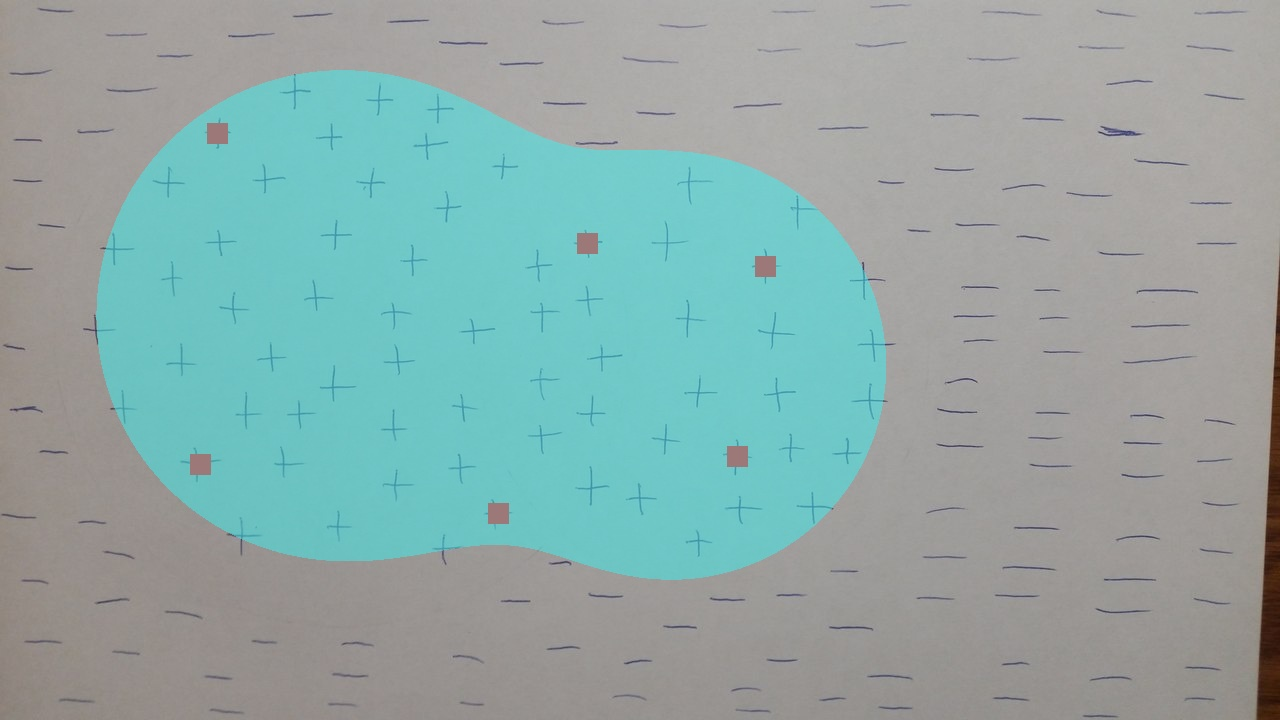
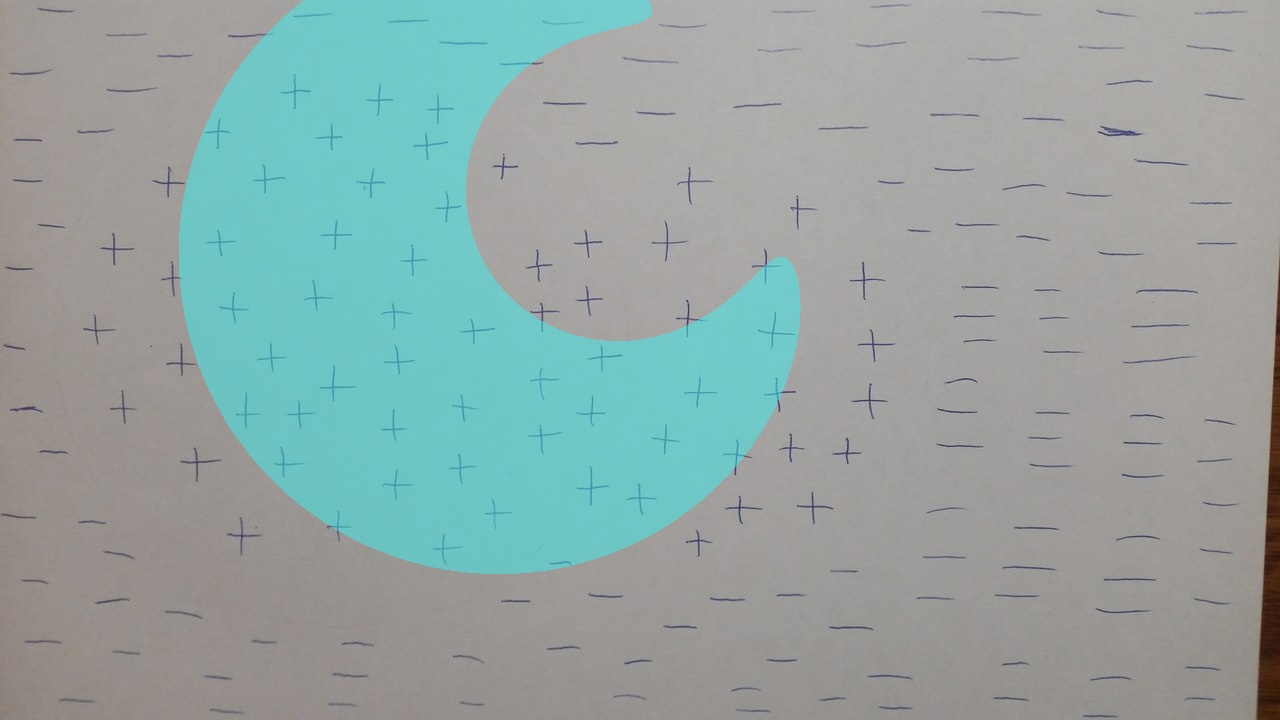
some is strange

Changed region(s): [[0.0625, 0.0, 0.7188, 0.825]]

diff --git a/perseptrons/plus3.1.py b/perseptrons/plus3.1.py
@@ -4,6 +4,7 @@ import queue
 
 global img
 global tmp
+global Plus, Minus
 
 numpy.random.seed(179)
 
@@ -20,6 +21,126 @@ def oval(canv, X2, Y2, R, N, color = "black"):
 
 def mr():
     return (-1 + numpy.random.random() * 2) / 20
+
+def count(Per1, Per2, Per3, N):
+    tmp = 0
+    while True:
+        t = numpy.random.randint(2)
+        if t:
+            p = numpy.random.randint(len(Plus))
+            x, y = Plus[p]
+        else:
+            p = numpy.random.randint(len(Minus))
+            x, y = Minus[p]
+            t = -1
+        in1 = nonlin(Coeff * incircle(x, y, Per1))
+        in2 = nonlin(Coeff * incircle(x, y, Per2))
+        ans = in1 * Per3[0][0] + in2 * Per3[1][0] + Per3[2][0]
+        if ans * t < 0:
+            Per3[0][0] += in1 * t * 0.01
+            Per3[1][0] += in2 * t * 0.01
+            Per3[2][0] += t * 0.01
+            d1 = nonlin(Coeff * incircle(x, y, Per1), True)
+            d2 = nonlin(Coeff * incircle(x, y, Per2), True)
+            coeff = t * d1 * Per3[0][0] * 0.01
+
+            Per1[0][0] += x ** 2 * coeff
+            Per1[1][0] += x * coeff
+            Per1[0][0] += y ** 2 * coeff
+            Per1[2][0] += y * coeff
+            Per1[3][0] += coeff
+            #Per1 /= numpy.sqrt(Per1[0][0] ** 2 + Per1[1][0] ** 2 + Per1[2][0] ** 2 + Per1[3][0] ** 2)
+            coeff = t * d2 * Per3[1][0] * 0.01
+            Per2[0][0] += x ** 2 * coeff
+            Per2[1][0] += x * coeff
+            Per2[0][0] += y ** 2 * coeff
+            Per2[2][0] += y * coeff
+            Per2[3][0] += coeff
+            #Per2 /= numpy.sqrt(Per2[0][0] ** 2 + Per2[1][0] ** 2 + Per2[2][0] ** 2 + Per2[3][0] ** 2)
+
+        tmp += 1
+        if tmp > N:
+            break
+
+    ErRr = 0
+
+    tmp = 0
+    while True:
+        t = 1
+        if t:
+            p = tmp
+            x, y = Plus[p]
+        else:
+            p = numpy.random.randint(len(Minus))
+            x, y = Minus[p]
+            t = -1
+        in1 = nonlin(Coeff * incircle(x, y, Per1))
+        in2 = nonlin(Coeff * incircle(x, y, Per2))
+        ans = in1 * Per3[0][0] + in2 * Per3[1][0] + Per3[2][0]
+        if ans * t < 0:
+            ErRr += 1
+
+        tmp += 1
+        if tmp >= len(Plus):
+            break
+
+    ErRrP = ErRr
+    ErRr = 0
+
+    tmp = 0
+    while True:
+        t = 0
+        if t:
+            p = tmp
+            x, y = Plus[p]
+        else:
+            p = tmp
+            x, y = Minus[p]
+            t = -1
+        in1 = nonlin(Coeff * incircle(x, y, Per1))
+        in2 = nonlin(Coeff * incircle(x, y, Per2))
+        ans = in1 * Per3[0][0] + in2 * Per3[1][0] + Per3[2][0]
+        if ans * t < 0:
+            ErRr += 1
+
+        tmp += 1
+        if tmp >= len(Minus):
+            break
+
+    return ErRrP, ErRr, Per1, Per2, Per3
+
+def expirement(P, Const = 10000): #p1x, p1y, ..., p6x, p6y
+    x1, y1, x2, y2, x3, y3 = P[:6]
+
+    locPer1 = 2 * numpy.random.random((4, 1)) - 1
+    locPer2 = 2 * numpy.random.random((4, 1)) - 1
+    locPer3 = 2 * numpy.random.random((3, 1)) - 1
+
+    locPer1[0][0] = (x2 - x3)*y1 - x1*(y2 - y3) + x3*y2 - x2*y3
+    locPer1[1][0] = x1**2*(y2 - y3) + y1**2*(y2 - y3) + x2**2*y3 + y2**2*y3 - (x2**2 - x3**2 + y2**2 - y3**2)*y1 - (x3**2 + y3**2)*y2
+    locPer1[2][0] = -x1**2*(x2 - x3) - x2**2*x3 - (x2 - x3)*y1**2 - x3*y2**2 + (x2**2 - x3**2 + y2**2 - y3**2)*x1 + (x3**2 + y3**2)*x2
+    locPer1[3][0] = -(x3*y2 - x2*y3)*x1**2 - (x3*y2 - x2*y3)*y1**2 - (x2**2*y3 + y2**2*y3 - (x3**2 + y3**2)*y2)*x1 + (x2**2*x3 + x3*y2**2 - (x3**2 + y3**2)*x2)*y1
+
+    locPer1 /= numpy.sqrt(locPer1[0][0] ** 2 + locPer1[1][0] ** 2 + locPer1[2][0] ** 2 + locPer1[3][0] ** 2)
+
+    x1, y1, x2, y2, x3, y3 = P[6:]
+
+    #by sage
+    locPer2[0][0] = (x2 - x3)*y1 - x1*(y2 - y3) + x3*y2 - x2*y3
+    locPer2[1][0] = x1**2*(y2 - y3) + y1**2*(y2 - y3) + x2**2*y3 + y2**2*y3 - (x2**2 - x3**2 + y2**2 - y3**2)*y1 - (x3**2 + y3**2)*y2
+    locPer2[2][0] = -x1**2*(x2 - x3) - x2**2*x3 - (x2 - x3)*y1**2 - x3*y2**2 + (x2**2 - x3**2 + y2**2 - y3**2)*x1 + (x3**2 + y3**2)*x2
+    locPer2[3][0] = -(x3*y2 - x2*y3)*x1**2 - (x3*y2 - x2*y3)*y1**2 - (x2**2*y3 + y2**2*y3 - (x3**2 + y3**2)*y2)*x1 + (x2**2*x3 + x3*y2**2 - (x3**2 + y3**2)*x2)*y1
+
+    locPer2 /= numpy.sqrt(locPer2[0][0] ** 2 + locPer2[1][0] ** 2 + locPer2[2][0] ** 2 + locPer2[3][0] ** 2)
+
+    locPer3[0][0] = 1 + mr()
+    locPer3[1][0] = 1 + mr()
+    locPer3[2][0] = -3/2 + mr()
+
+    erp, erm, locPer1, locPer2, locPer3 = count(locPer1, locPer2, locPer3, Const) #big constant
+    #erp, erm = 0, 0
+    return (erp / len(Plus))**2 + (erm / len(Minus))**2, locPer1, locPer2, locPer3
+
 
 Per1 = 2 * numpy.random.random((4, 1)) - 1
 Per2 = 2 * numpy.random.random((4, 1)) - 1
@@ -58,6 +179,57 @@ print(len(Minus))
 if len(Plus) < 6:
     exit(0)
 
+D = max(len(img), len(img[0]))
+for i in range(len(Plus)):
+    Plus[i] = (Plus[i][0] / D, Plus[i][1] / D)
+for i in range(len(Minus)):
+    Minus[i] = (Minus[i][0] / D, Minus[i][1] / D)
+
+Min = 2
+S = set()
+while len(S) < 6:
+    S |= {numpy.random.randint(len(Plus))}
+S = [Plus[_] for _ in S]
+MinS = S
+for i in range(50): #big constant
+    S = set()
+    while len(S) < 6:
+        S |= {numpy.random.randint(len(Plus))}
+    S = [Plus[_] for _ in S]
+    P = [S[0][0], S[0][1], S[1][0], S[1][1], S[4][0], S[4][1]]
+    P += [S[3][0], S[3][1], S[2][0], S[2][1], S[5][0], S[5][1]]
+
+    tmpMin, locPer1, locPer2, locPer3 = expirement(P)
+    if tmpMin < Min:
+        MinS = S
+        Min = tmpMin
+
+print("Min = ", Min)
+S = MinS
+P = [S[0][0], S[0][1], S[1][0], S[1][1], S[4][0], S[4][1]]
+P += [S[3][0], S[3][1], S[2][0], S[2][1], S[5][0], S[5][1]]
+
+tmpMin, Per1, Per2, Per3 = expirement(P, Const = 2000000)
+
+print(tmpMin)
+
+print("Start draw")
+
+for i in range(len(img)):
+    for j in range(len(img[0])):
+        x, y = i / D, j / D
+        in1 = nonlin(Coeff * incircle(x, y, Per1))
+        in2 = nonlin(Coeff * incircle(x, y, Per2))
+        ans = in1 * Per3[0][0] + in2 * Per3[1][0] + Per3[2][0]
+        if ans > 0:
+            img[i][j][0] = (240 + img[i][j][0]) // 2
+            img[i][j][1] = (240 + img[i][j][1]) // 2
+            img[i][j][2] = (60 + img[i][j][2]) // 2
+
+cv2.imwrite("./newpm3.jpg", img)
+
+exit(0)
+
 S = set()
 while len(S) < 6:
     S |= {numpy.random.randint(len(Plus))}
@@ -69,12 +241,6 @@ for elem in S:
             img[x + dx][y + dy][0] = 0
             img[x + dx][y + dy][1] = 0
             img[x + dx][y + dy][2] = 255
-
-D = max(len(img), len(img[0]))
-for i in range(len(Plus)):
-    Plus[i] = (Plus[i][0] / D, Plus[i][1] / D)
-for i in range(len(Minus)):
-    Minus[i] = (Minus[i][0] / D, Minus[i][1] / D)
 
 S = [Plus[i] for i in S]
 
@@ -139,8 +305,8 @@ while True:
         #Per2 /= numpy.sqrt(Per2[0][0] ** 2 + Per2[1][0] ** 2 + Per2[2][0] ** 2 + Per2[3][0] ** 2)
 
     tmp += 1
-    print(tmp / (10000 * (len(Plus) + len(Minus))))
-    if tmp > 10000 * (len(Plus) + len(Minus)):
+    print(tmp / (5000 * (len(Plus) + len(Minus))))
+    if tmp > 5000 * (len(Plus) + len(Minus)):
         break
 
 ErRr = 0
@@ -198,8 +364,9 @@ print(Per1)
 print(Per2)
 print(Per3)
 
-C, X2, Y2, R1 = Per1[0][0], Per1[1][0], Per1[2][0], Per1[3][0]
 """
+C, X2, Y2, R1 = Per1[0][0], Per1[1][0], Per1[2][0], Per1[3][0]
+
 if (D * X2 / C / 2)**2 + (D * Y2 / C / 2)**2 - D * D * R1 / C > 0:
     X = -1 * D * X2 / 2 / C
     Y = -1 * D * Y2 / 2 / C
